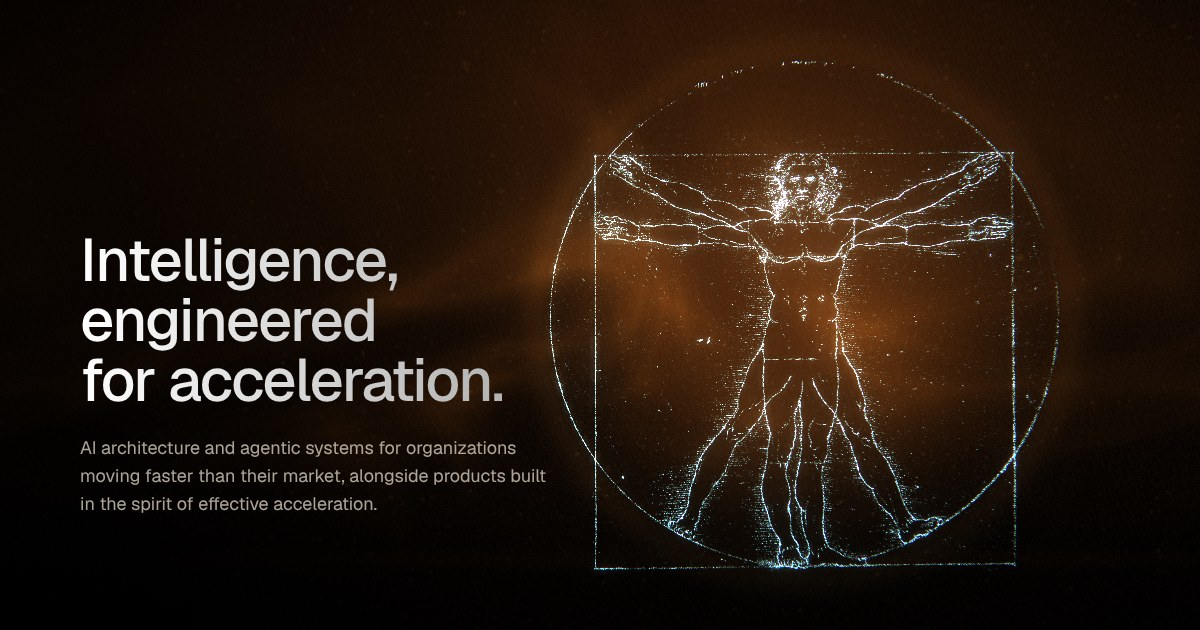
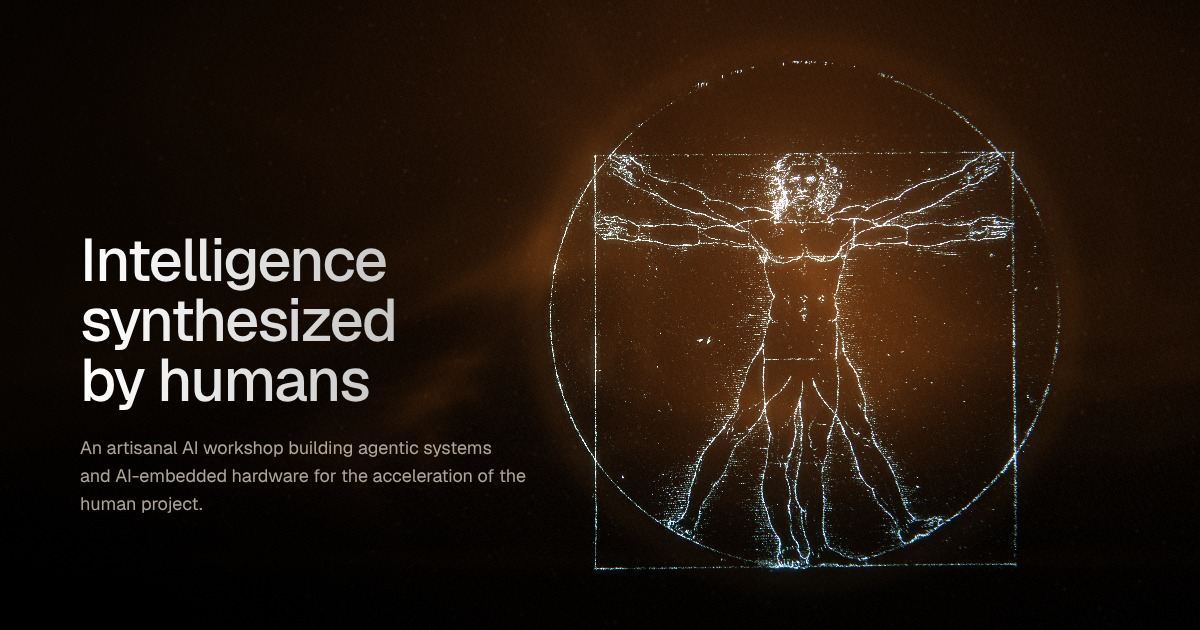
Re-render link preview image with current copy
Claude-Session: https://claude.ai/code/session_017ATWibVhEJbmwCAw6smWZz

diff --git a/index.html b/index.html
@@ -17,16 +17,16 @@
   <meta property="og:url" content="https://lastelle.ai/" />
   <meta property="og:title" content="Lastelle AI | Intelligence Synthesized by Humans" />
   <meta property="og:description" content="An artisanal AI workshop building agentic systems and AI-embedded hardware for the acceleration of the human project." />
-  <meta property="og:image" content="https://lastelle.ai/assets/brand/og-image.jpg" />
+  <meta property="og:image" content="https://lastelle.ai/assets/brand/og-image.jpg?v=2" />
   <meta property="og:image:width" content="1200" />
   <meta property="og:image:height" content="630" />
-  <meta property="og:image:alt" content="Lastelle AI: Intelligence synthesized by humans. Leonardo's Vitruvian Man rendered in light." />
+  <meta property="og:image:alt" content="Lastelle AI: Intelligence synthesized by humans. An artisanal AI workshop building agentic systems and AI-embedded hardware, beside Leonardo's Vitruvian Man rendered in light." />
   <meta name="twitter:card" content="summary_large_image" />
   <meta name="twitter:site" content="@clangnosis" />
   <meta name="twitter:creator" content="@clangnosis" />
   <meta name="twitter:title" content="Lastelle AI | Intelligence Synthesized by Humans" />
   <meta name="twitter:description" content="An artisanal AI workshop building agentic systems and AI-embedded hardware for the acceleration of the human project." />
-  <meta name="twitter:image" content="https://lastelle.ai/assets/brand/og-image.jpg" />
+  <meta name="twitter:image" content="https://lastelle.ai/assets/brand/og-image.jpg?v=2" />
   <meta name="twitter:image:alt" content="Lastelle AI: Intelligence synthesized by humans." />
   <link rel="icon" href="assets/brand/favicon.svg" type="image/svg+xml" />
   <link rel="icon" href="assets/brand/favicon-48.png" sizes="48x48" type="image/png" />
@@ -181,7 +181,7 @@
     {
       "@type": "ImageObject",
       "@id": "https://lastelle.ai/#primaryimage",
-      "url": "https://lastelle.ai/assets/brand/og-image.jpg",
+      "url": "https://lastelle.ai/assets/brand/og-image.jpg?v=2",
       "width": 1200,
       "height": 630
     },
